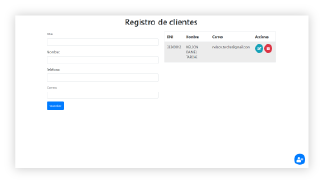
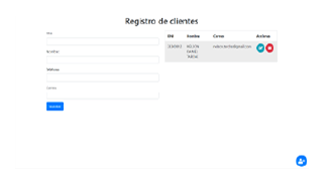
Cambios

diff --git a/css/estilos.css b/css/estilos.css
@@ -282,7 +282,6 @@ footer .fa-whatsapp{
     font-size: 10px;
     font-weight: bold;
     padding: 10px 20px;
-
 }
 @media(max-width:576px){
     #proyectos .btn-p1{
@@ -293,9 +292,10 @@ footer .fa-whatsapp{
 #proyectos .btn-p2{
     color: #E20000;
     font-size: 10px;
-    font-weight: 800; 
-    padding: 0;     
-    
+    font-weight: 800;     
+    position: absolute;    
+    right: 30px;
+    top:7px;       
 }
 @media(max-width:576px){
     #proyectos .btn-p2{
@@ -304,7 +304,6 @@ footer .fa-whatsapp{
         text-align: right;  
     }
 }
-
 #proyectos h2{
     color: white;
     font-size: 16px;
@@ -336,7 +335,7 @@ footer .fa-whatsapp{
 
 @media(max-width:576px){
     #proyectos img{
-        height: 300px;
+        height: 200px;
     }
 }
 @media(max-width:576px){
@@ -348,8 +347,8 @@ footer .fa-whatsapp{
     border-radius: 20px;
     border-color: white;
     height: 460px;
-    width: 300px;
-    
+    width: fit-content;
+    border:0;
 }
 @media(max-width:576px){
     #proyectos .card{
@@ -360,7 +359,6 @@ footer .fa-whatsapp{
         margin-top: 10px;
     }
 }
-
 #proyectos .btn-proyectos{
     display:flex;
     position: absolute;
@@ -381,15 +379,18 @@ footer .fa-whatsapp{
 }
 #proyectos .card-text{
     padding:10px; 
-    margin:5px 10px;        
+    margin:5px 5px;        
 }
 #proyectos .card-title{
     padding:0; 
     margin:0;        
 }
 #proyectos .btn-col-p{
-    padding: 0;
-    
+    padding: 0;   
+}
+#proyectos .btn-col-d{
+    padding: 0;   
+    text-align: left;
 }
 
 

diff --git a/proyectos.php b/proyectos.php
@@ -25,7 +25,7 @@ include_once("menu.php"); ?>
                                 <div class="col-sm-6 col-6 btn-col-p">
                                     <a href="Proyectos/AbmClientes/abmclientes.php" target="_blank" class="btn-p1 rounded-pill">VER ONLINE</a>
                                 </div>
-                                <div class="col-sm-6 col-6 btn-col-p">
+                                <div class="col-sm-6 col-6 btn-col-d">
                                     <a href="https://github.com/arnoldamorin/abmclientes.git" class="btn-p2">CÓDIGO FUENTE</a>
                                 </div>
                             </div>
@@ -45,7 +45,7 @@ include_once("menu.php"); ?>
                                 <div class="col-sm-6 col-6 btn-col-p">
                                     <a href="Proyectos/SGV/index.php" target="_blank" class="btn-p1 rounded-pill">VER PROYECTO</a>
                                 </div>
-                                <div class="col-sm-6 col-6 btn-col-p">
+                                <div class="col-sm-6 col-6 btn-col-d">
                                     <a href="https://github.com/arnoldamorin/Sistema-de-ventas.git" target="_blank" class="btn-p2">CÓDIGO FUENTE</a>
                                 </div>
                             </div>
@@ -64,7 +64,7 @@ include_once("menu.php"); ?>
                                 <div class="col-sm-6 col-6 btn-col-p">
                                     <a href="wwww.emilcecharras.com.ar/admin" target="_blank" class="btn-p1 rounded-pill">VER ONLINE</a>
                                 </div>
-                                <div class="col-sm-6 col-6  btn-col-p">
+                                <div class="col-sm-6 col-6  btn-col-d">
                                     <a href="#" class="btn-p2">CÓDIGO FUENTE</a>
                                 </div>
                             </div>
